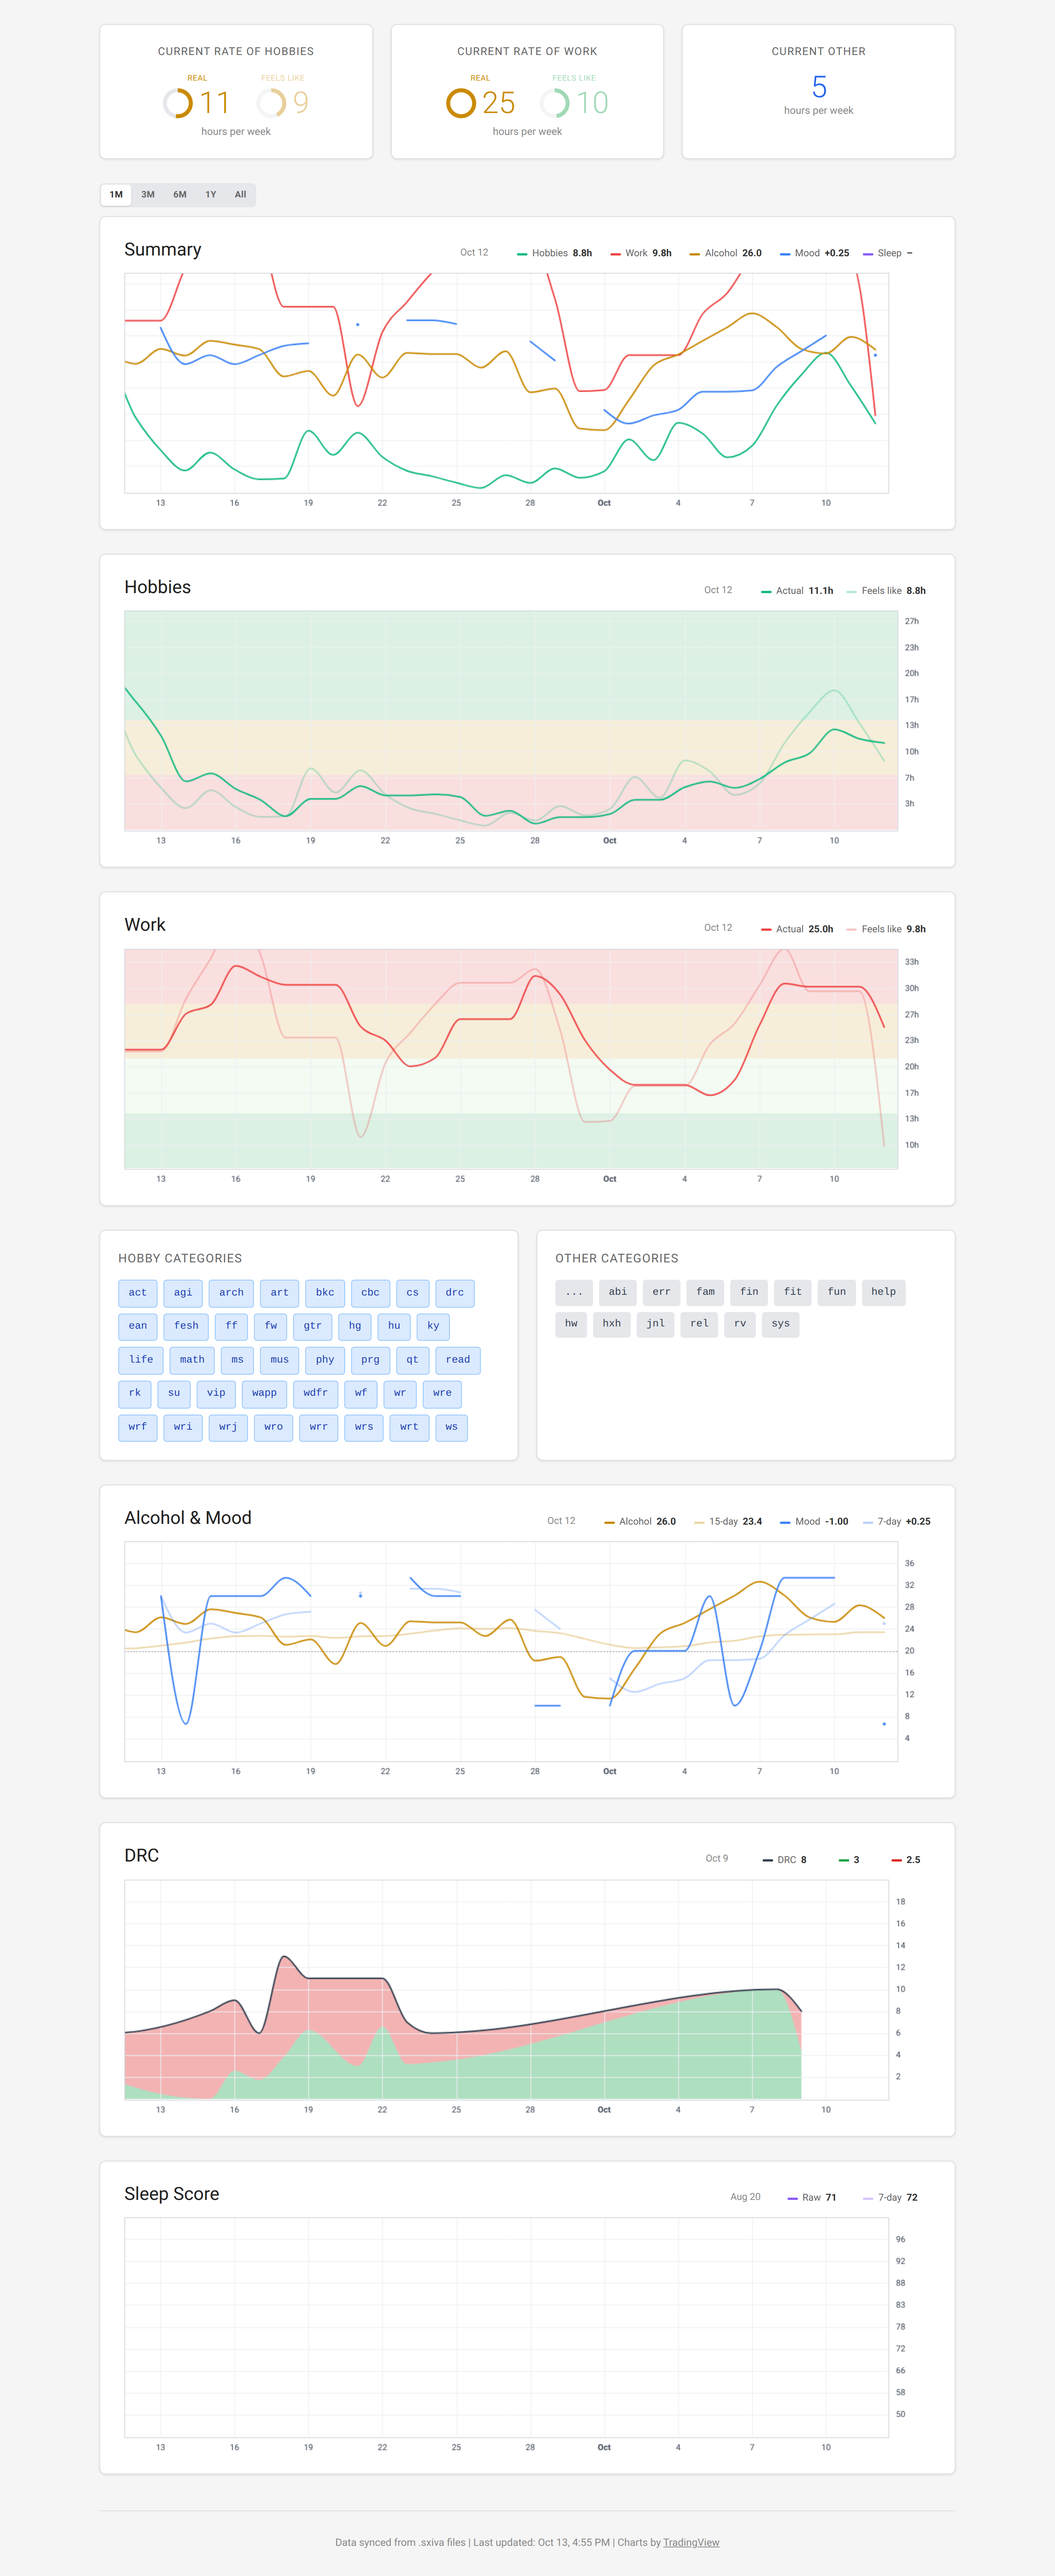
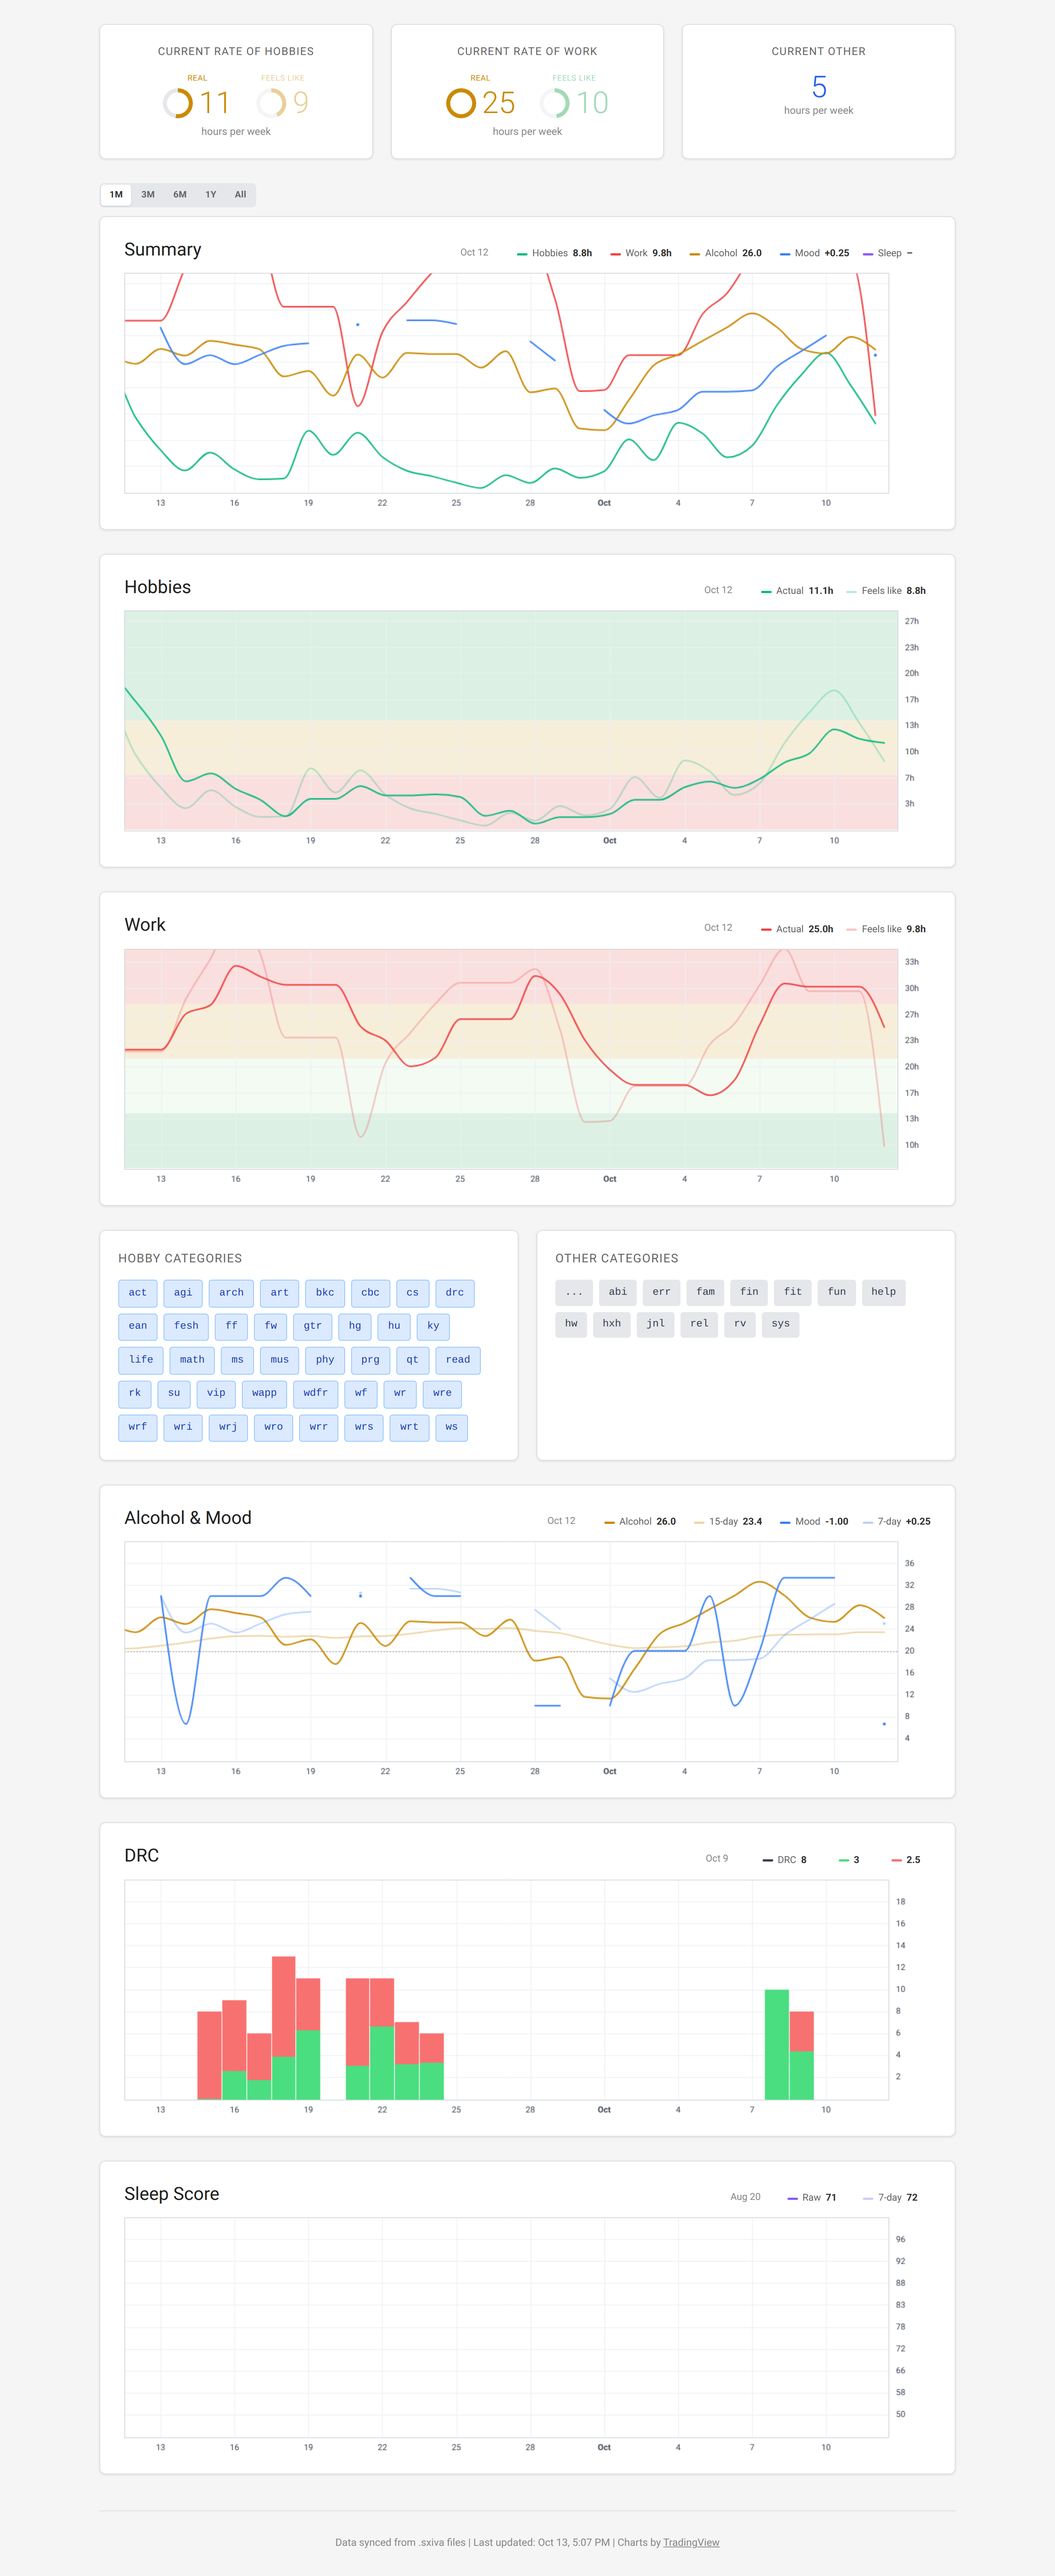
feat(status): DRC as stacked bars — no bar on unlogged days
Two histogram series per day: red at the full height, green up to the
resisted share drawn over it. Drops the DRC curve/fill primitive.

Changed region(s): [[0.0932, 0.7478, 0.7768, 0.8413]]

diff --git a/foundry/website/html/status/app.js b/foundry/website/html/status/app.js
@@ -38,8 +38,8 @@ const COLORS = {
     SLEEP: '#8b5cf6',
     SLEEP_LIGHT: 'rgba(139, 92, 246, 0.35)',
     DRC: '#374151',
-    DRC_GREEN: 'rgba(22, 163, 74, 0.35)',
-    DRC_RED: 'rgba(220, 38, 38, 0.35)',
+    DRC_GREEN: '#4ade80',
+    DRC_RED: '#f87171',
 
     GRID: '#eef0f3',
     AXIS: '#d1d5db',
@@ -294,110 +294,23 @@ class SmoothLinePrimitive {
                 continue;
             }
             ctx.beginPath();
-            traceCurve(ctx, run, monotoneTangents(run), false);
+            traceCurve(ctx, run, monotoneTangents(run));
             ctx.stroke();
         }
         ctx.restore();
     }
 }
 
-// One cubic segment from a to b with end tangents ma, mb (swap the
-// arguments to walk the same segment backwards)
+// One cubic segment from a to b with end tangents ma, mb
 function bezier(ctx, a, ma, b, mb) {
     const dx = (b.x - a.x) / 3;
     ctx.bezierCurveTo(a.x + dx, a.y + dx * ma, b.x - dx, b.y - dx * mb, b.x, b.y);
 }
 
-// Append the monotone curve through pts to the current path: moveTo its
-// first point and walk forward, or lineTo its last point and walk back
-function traceCurve(ctx, pts, m, reverse) {
-    const n = pts.length;
-    if (!reverse) {
-        ctx.moveTo(pts[0].x, pts[0].y);
-        for (let i = 0; i < n - 1; i++) bezier(ctx, pts[i], m[i], pts[i + 1], m[i + 1]);
-    } else {
-        ctx.lineTo(pts[n - 1].x, pts[n - 1].y);
-        for (let i = n - 1; i > 0; i--) bezier(ctx, pts[i], m[i], pts[i - 1], m[i - 1]);
-    }
-}
-
-// DRC fill: under the DRC curve, green from the baseline up to the resisted
-// share of the day's height, red from there up to the curve. Both edges are
-// monotone curves through their points, like the line above them.
-class StackedFillPrimitive {
-    constructor(bottomColor, topColor) {
-        this._bottomColor = bottomColor;
-        this._topColor = topColor;
-        this._points = []; // { index, top, mid } for days with data
-        this._top = [];
-        this._mid = [];
-        this._base = 0;
-        const self = this;
-        this._views = [{
-            zOrder: () => 'bottom',
-            renderer: () => ({
-                draw: target => target.useMediaCoordinateSpace(({ context: ctx }) => self._draw(ctx))
-            })
-        }];
-    }
-
-    setPoints(points) {
-        this._points = points;
-    }
-
-    attached({ chart, series }) {
-        this._chart = chart;
-        this._series = series;
-    }
-
-    detached() {
-        this._chart = null;
-        this._series = null;
-    }
-
-    updateAllViews() {
-        if (!this._chart || !this._series) return;
-        const timeScale = this._chart.timeScale();
-        const top = [], mid = [];
-        for (const p of this._points) {
-            const x = timeScale.logicalToCoordinate(p.index);
-            const yTop = this._series.priceToCoordinate(p.top);
-            const yMid = this._series.priceToCoordinate(p.mid);
-            if (x === null || yTop === null || yMid === null) continue;
-            top.push({ x, y: yTop });
-            mid.push({ x, y: yMid });
-        }
-        this._top = top;
-        this._mid = mid;
-        this._base = this._series.priceToCoordinate(0) ?? 0;
-    }
-
-    paneViews() {
-        return this._views;
-    }
-
-    _draw(ctx) {
-        if (this._top.length < 2) return;
-        const mTop = monotoneTangents(this._top);
-        const mMid = monotoneTangents(this._mid);
-        ctx.save();
-        // Red: along the curve, back along the split
-        ctx.beginPath();
-        traceCurve(ctx, this._top, mTop, false);
-        traceCurve(ctx, this._mid, mMid, true);
-        ctx.closePath();
-        ctx.fillStyle = this._topColor;
-        ctx.fill();
-        // Green: along the split, back along the baseline
-        ctx.beginPath();
-        traceCurve(ctx, this._mid, mMid, false);
-        ctx.lineTo(this._mid[this._mid.length - 1].x, this._base);
-        ctx.lineTo(this._mid[0].x, this._base);
-        ctx.closePath();
-        ctx.fillStyle = this._bottomColor;
-        ctx.fill();
-        ctx.restore();
-    }
+// Append the monotone curve through pts to the current path
+function traceCurve(ctx, pts, m) {
+    ctx.moveTo(pts[0].x, pts[0].y);
+    for (let i = 0; i < pts.length - 1; i++) bezier(ctx, pts[i], m[i], pts[i + 1], m[i + 1]);
 }
 
 // Plot border: the library only draws the axis edges (right, bottom); this
@@ -526,11 +439,27 @@ function addLine(chart, item) {
     });
 }
 
+// Bars (DRC): one histogram series per item, drawn in item order
+function addBars(chart, item) {
+    return chart.addSeries(LWC.HistogramSeries, {
+        color: item.barColor,
+        base: 0,
+        priceScaleId: item.scaleId,
+        priceLineVisible: false,
+        lastValueVisible: false,
+        priceFormat: { type: 'custom', formatter: item.axisFormat, minMove: 0.01 },
+        autoscaleInfoProvider: () => ({
+            priceRange: { minValue: item.range[0], maxValue: item.range[1] },
+            margins: { above: 0, below: 0 }
+        })
+    });
+}
+
 // A card = one chart + its legend readout. items: [{ name, color, series,
-// key, format, transform, requires, interpolate, legendOnly }], where key
+// key, format, transform, plot, requires, bar, legendOnly }], where key
 // picks the API field and format turns the RAW value into the legend string
-// (transform only shapes the plotted value). A legendOnly item is a readout
-// without a series; an interpolate item skips absent days instead of gapping.
+// (transform / plot only shape the plotted value). A legendOnly item is a
+// readout without a series; a bar item is a histogram instead of a curve.
 const cards = [];
 let charts = [];
 let dates = [];        // every calendar day of the loaded history, ascending
@@ -546,7 +475,9 @@ function buildCard(id, legendId, items, { zones = null } = {}) {
     legend.appendChild(dateEl);
 
     for (const item of items) {
-        if (!item.legendOnly) {
+        if (item.bar) {
+            item.series = addBars(chart, item);
+        } else if (!item.legendOnly) {
             item.series = addLine(chart, item);
             item.curve = new SmoothLinePrimitive(item.color);
             item.series.attachPrimitive(item.curve);
@@ -629,14 +560,15 @@ function buildCharts() {
         price: 0, color: '#999', lineWidth: 1, lineStyle: LWC.LineStyle.Dashed, axisLabelVisible: false, title: ''
     });
 
-    // DRC: a day's height split green (resisted) / red (indulged) in proportion
-    const drc = buildCard('drcChart', 'drcLegend', [
-        { name: 'DRC', color: COLORS.DRC, scaleId: 'right', range: [0, 10], axisFormat: fmt.plain, key: 'drc_triggers', format: fmt.plain, interpolate: true },
-        { color: COLORS.GREEN, key: 'drc_resisted', format: fmt.plain, legendOnly: true },
-        { color: COLORS.RED, key: 'drc_indulged', format: fmt.plain, legendOnly: true }
+    // DRC: one bar per logged day, its height split green (resisted) / red
+    // (indulged) in proportion — a red bar at the full height, then a green
+    // bar up to the resisted share drawn over it
+    buildCard('drcChart', 'drcLegend', [
+        { name: 'DRC', color: COLORS.DRC, barColor: COLORS.DRC_RED, bar: true, scaleId: 'right', range: [0, 10], axisFormat: fmt.plain, key: 'drc_triggers', format: fmt.plain },
+        { color: COLORS.DRC_GREEN, barColor: COLORS.DRC_GREEN, bar: true, scaleId: 'right', range: [0, 10], axisFormat: fmt.plain, key: 'drc_resisted', format: fmt.plain,
+          plot: r => { const g = r.drc_resisted ?? 0, b = r.drc_indulged ?? 0; return g + b > 0 ? r.drc_triggers * g / (g + b) : 0; } },
+        { color: COLORS.DRC_RED, key: 'drc_indulged', format: fmt.plain, legendOnly: true }
     ]);
-    drc.fill = new StackedFillPrimitive(COLORS.DRC_GREEN, COLORS.DRC_RED);
-    drc.items[0].series.attachPrimitive(drc.fill);
 
     buildCard('sleepChart', 'sleepLegend', [
         { name: 'Raw', color: COLORS.SLEEP, scaleId: 'right', range: SCALES.sleep, axisFormat: fmt.sleepAxis, key: 'sleep_raw', format: fmt.sleep, transform: transformSleep },
@@ -676,17 +608,15 @@ function setCalendar() {
 }
 
 // A day with no row, a null value, or (for a derived series) a null
-// underlying raw value is ABSENT: whitespace, so no line is drawn through it.
-// The API carries 7-day averages forward over days with no entry, which
-// would otherwise draw a line across the gap. An `interpolate` series
-// (DRC) instead skips absent days, so its curve runs on to the next day.
+// underlying raw value is ABSENT: whitespace, so no line (or bar) is drawn
+// there. The API carries 7-day averages forward over days with no entry,
+// which would otherwise draw a line across the gap.
 function setCardData(card) {
-    const dateIndex = new Map(dates.map((d, i) => [d, i]));
     for (const item of card.items) {
         const rows = data[datasetFor(item.key)].data;
         const byDate = new Map(rows.map(r => [r.date, r]));
-        const plotted = v => (item.transform ? item.transform(v) : v);
-        // Hours readouts follow what's plotted (work is ×2); mood/sleep
+        const plotted = (v, r) => (item.plot ? item.plot(r) : item.transform ? item.transform(v) : v);
+        // Hours readouts follow what's plotted (work is ×2); mood/sleep/DRC
         // readouts show the raw value, not the axis-shaping transform
         const shown = /^(hobby|work)/.test(item.key) ? plotted : v => v;
         item.lookup.clear();
@@ -696,7 +626,7 @@ function setCardData(card) {
             continue;
         }
         if (item.key.startsWith('alc')) item.range = [0, rangeMax(rows.flatMap(r => [r.alc_7day_sum, r.alc_15day_avg]), 10, 10)];
-        if (item.key === 'drc_triggers') item.range = [0, rangeMax(rows.map(r => r.drc_triggers), 5, 10)];
+        if (item.key.startsWith('drc')) item.range = [0, rangeMax(rows.map(r => r.drc_triggers), 5, 10)];
 
         const points = [], curve = [];
         dates.forEach((date, index) => {
@@ -704,24 +634,16 @@ function setCardData(card) {
             const v = r ? r[item.key] : null;
             const absent = v === null || v === undefined || (item.requires && r[item.requires] === null);
             if (absent) {
-                if (!item.interpolate) { points.push({ time: date }); curve.push(null); }
+                points.push({ time: date });
+                curve.push(null);
                 return;
             }
-            item.lookup.set(date, item.format(shown(v)));
-            points.push({ time: date, value: plotted(v) });
-            curve.push({ index, value: plotted(v) });
+            item.lookup.set(date, item.format(shown(v, r)));
+            points.push({ time: date, value: plotted(v, r) });
+            curve.push({ index, value: plotted(v, r) });
         });
         item.series.setData(points);
-        item.curve.setPoints(curve);
-    }
-
-    if (card.fill) {
-        const rows = data.drc.data.filter(r => r.drc_triggers !== null && dateIndex.has(r.date));
-        card.fill.setPoints(rows.map(r => {
-            const green = (r.drc_resisted ?? 0), red = (r.drc_indulged ?? 0);
-            const share = green + red > 0 ? green / (green + red) : 0;
-            return { index: dateIndex.get(r.date), top: r.drc_triggers, mid: r.drc_triggers * share };
-        }));
+        if (item.curve) item.curve.setPoints(curve);
     }
 }
 
